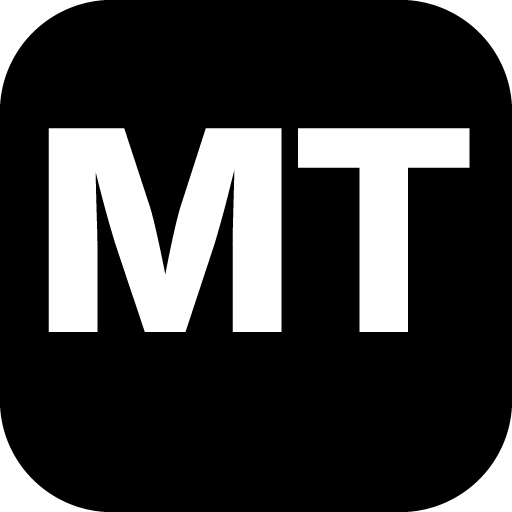
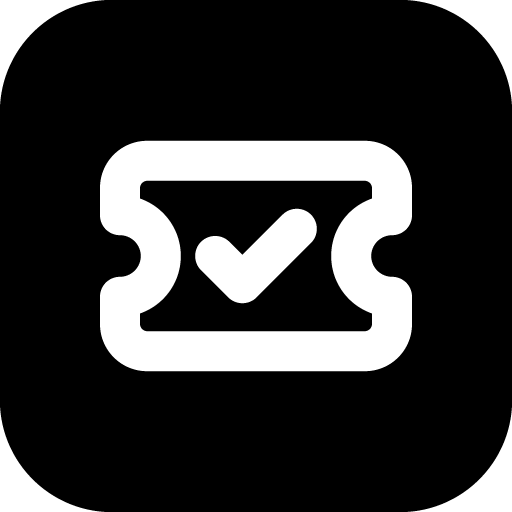
Release MiniTickets 1.10.31

Changed region(s): [[0.0938, 0.25, 0.9375, 0.75]]

diff --git a/docs/handoff.md b/docs/handoff.md
@@ -109,6 +109,7 @@ MiniTickets is live as a bilingual, workspace-based ticketing system for persona
 - When `MINIAUTH_WORKSPACE_SYNC_ENABLED=true`, shared workspace creation and membership changes should be done in MiniAuth, while MiniTickets keeps only app-specific workspace settings local
 - When MiniAuth-backed identity is in use, MiniTickets should treat MiniAuth as the source of truth for whether a user is active; inactive users should disappear from current operational UI such as assignee and people pickers while historical ticket/comment records remain intact
 - When shared-login mode is enabled, shared user preferences for language, theme, and accent now belong to MiniAuth; MiniTickets settings should keep only app-local preferences and link users to MiniAuth for shared account presentation values
+- The primary app icon/favicon now uses the newer ticket-mark artwork in `app/icon.png`; keep future icon updates flowing through that single Next app icon asset unless the app later needs distinct platform-specific variants
 - The release that removes ticket category/type from the schema requires a one-time `prisma db push --accept-data-loss` during deploy because the database shape shrinks
 - Prisma, Prisma Client, and the SQLite adapter are now on the 7.6 line; Next and a few low-risk support packages were also patch-updated in the same release
 - Attachment responses, including unauthorized and missing-file cases, should stay non-cacheable and non-indexable
